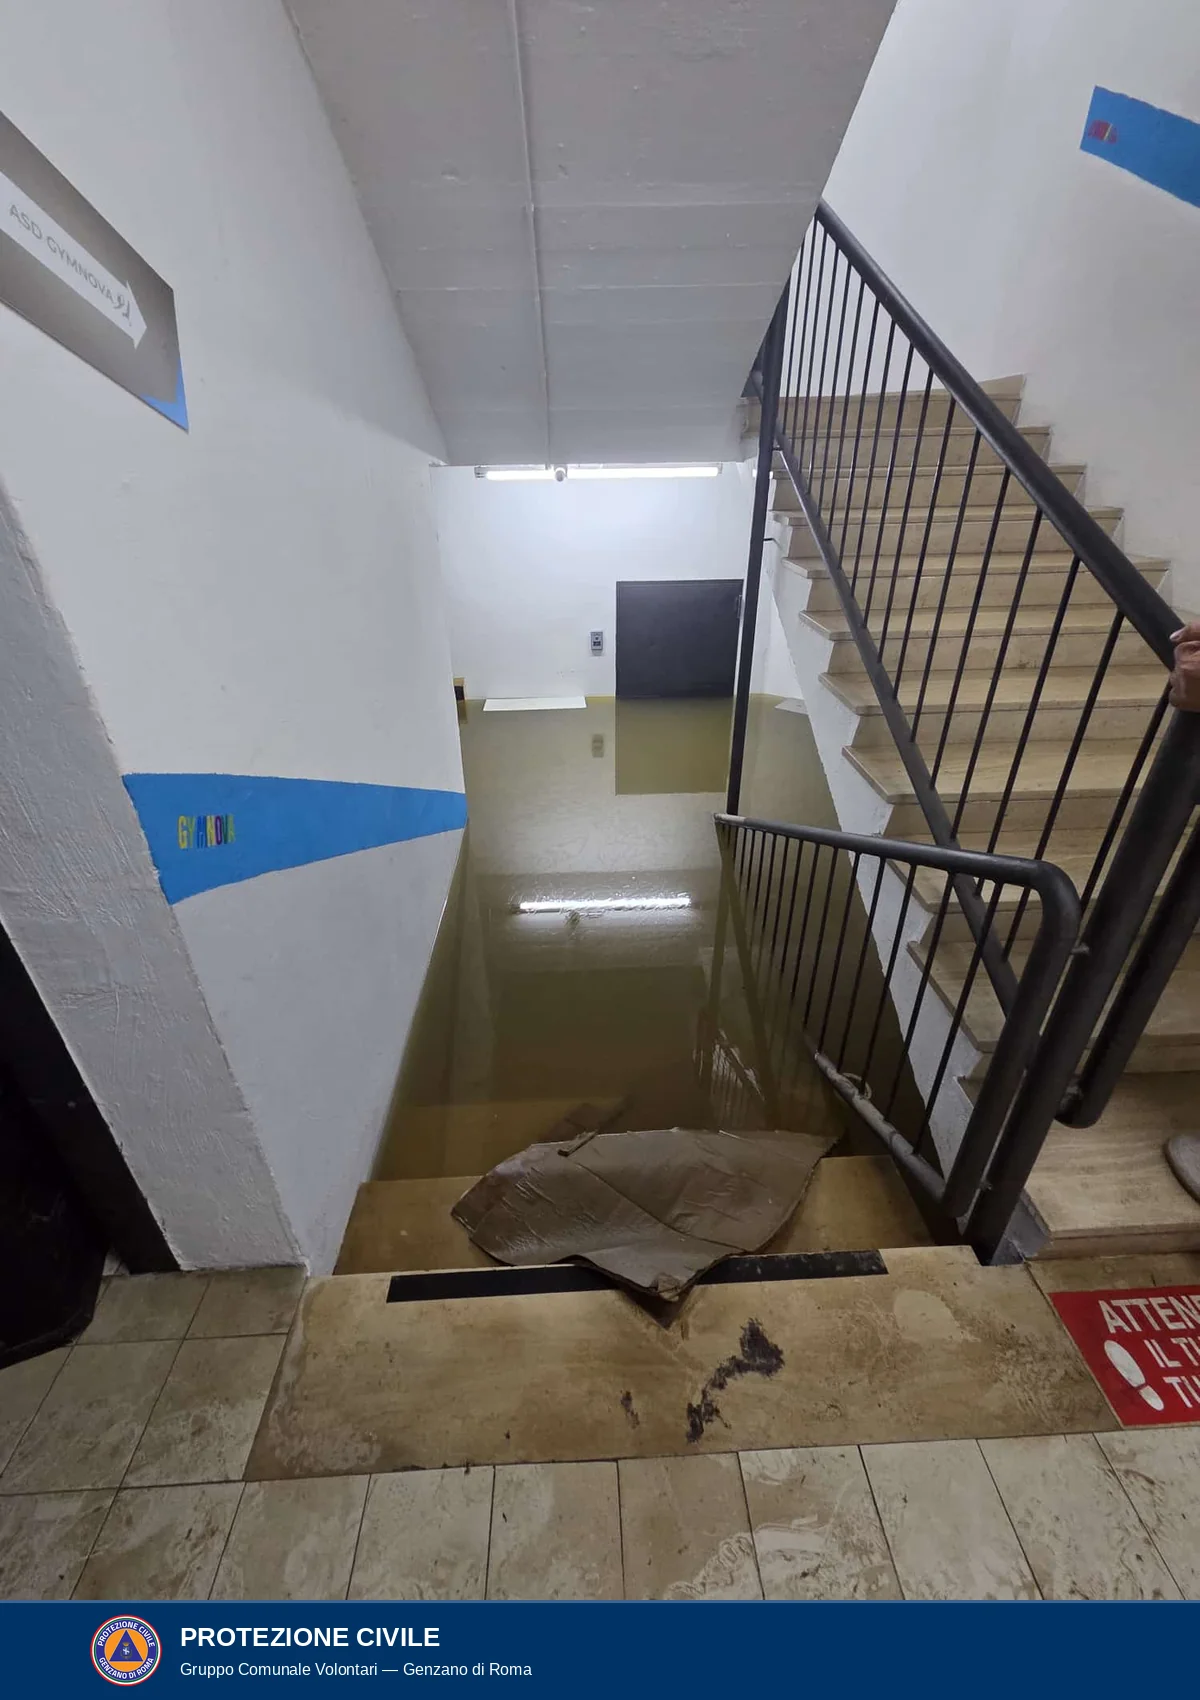
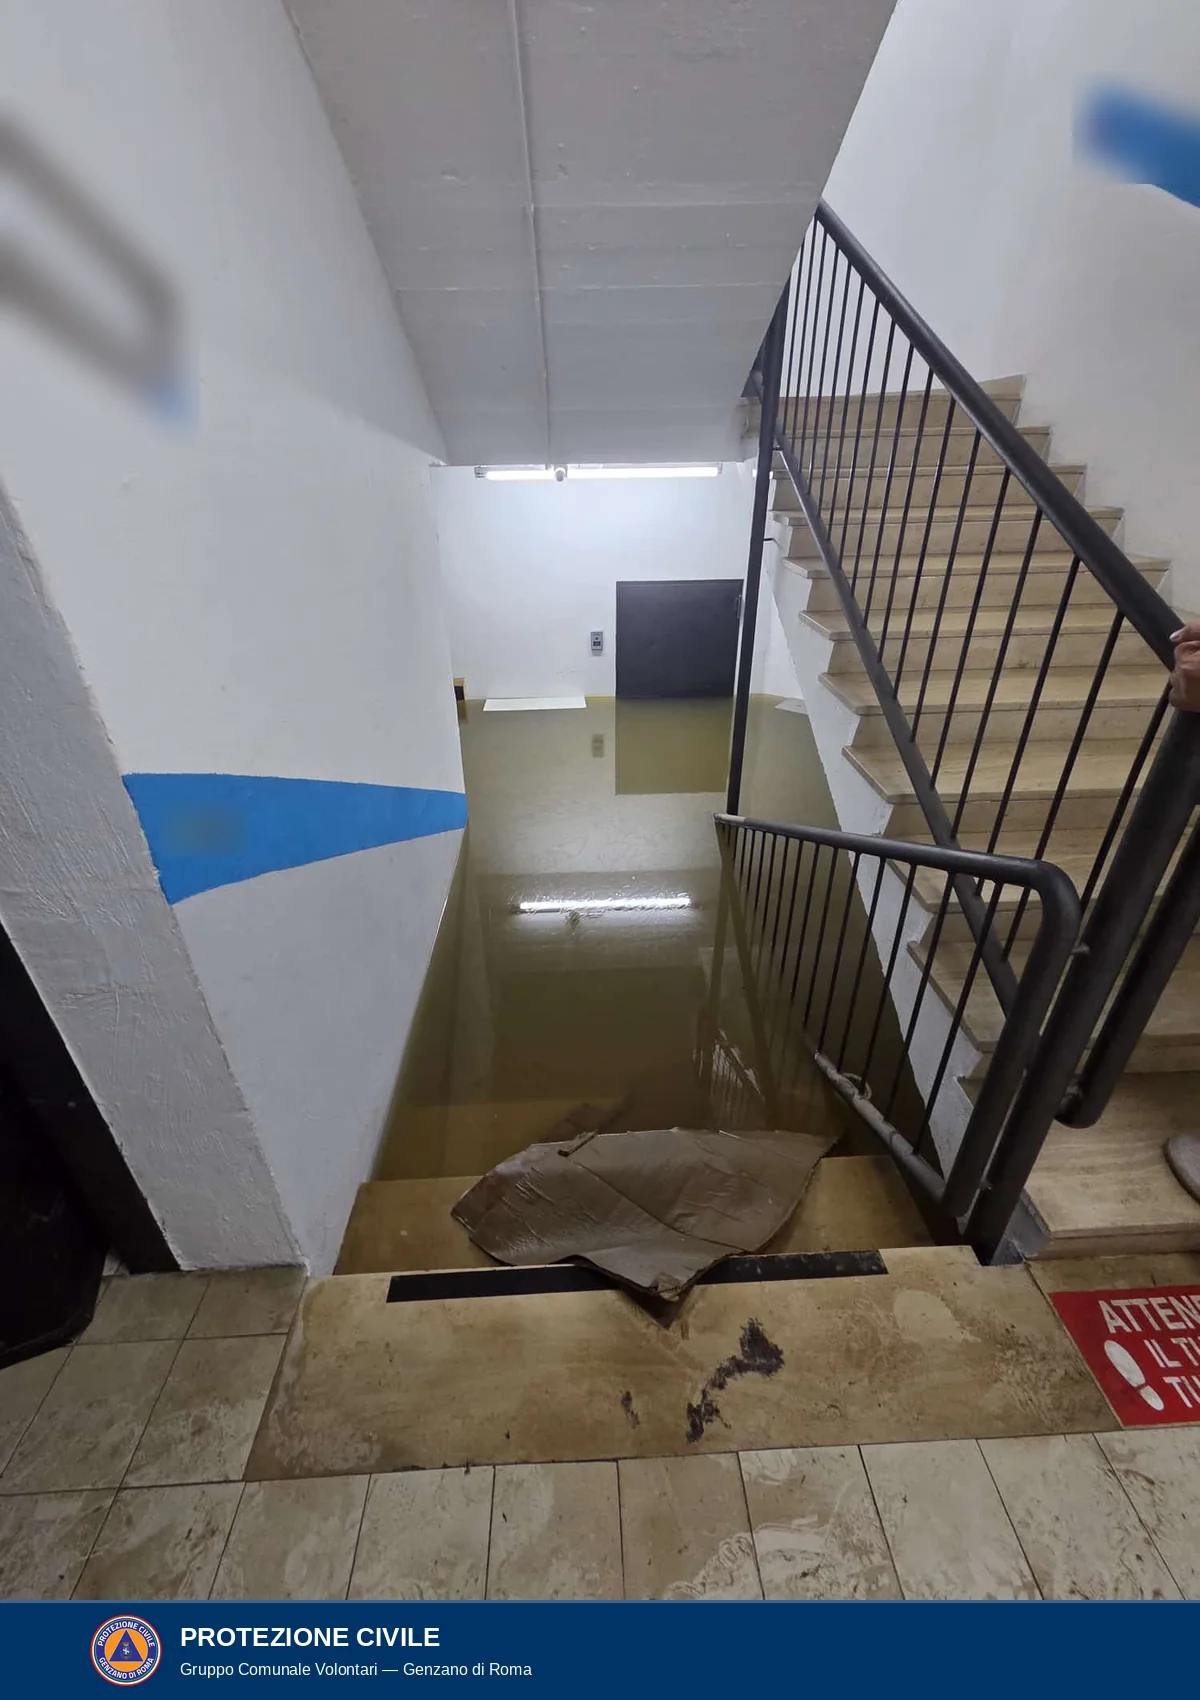
Resoconto del 21 ottobre: didascalie verificate e nome del locale sfocato

Changed region(s): [[0.0, 0.0624, 0.1542, 0.2494], [0.8942, 0.0312, 1.0, 0.1247], [0.1233, 0.4676, 0.2158, 0.4988]]

diff --git a/content/comunicazioni/2026-10-21-maltempo-rami-genzano-volontari-alluvione-latina.md b/content/comunicazioni/2026-10-21-maltempo-rami-genzano-volontari-alluvione-latina.md
@@ -38,23 +38,23 @@ Secondo le cronache locali, a Latina sono caduti circa 170 millimetri di pioggia
 
 Nel corso della mattina è partita anche una nostra squadra, con il pickup EVO Cross 4 del Gruppo e un'idrovora carrellata. Dopo l'allerta della **Sala Operativa Unificata Permanente** (SOUP) della Regione, il **Coordinamento FE.PI.VOL.**, a cui il Gruppo aderisce, ha mobilitato su indicazione della Regione Lazio le associazioni dei territori non colpiti, per dare supporto ai volontari di Latina e dei comuni vicini. Con noi c'erano, tra gli altri, i volontari del Gruppo comunale di Albano Laziale. Secondo le cronache locali, a Latina operavano anche le squadre comunali di Lanuvio e Velletri e associazioni di Ardea e di Anzio. Le squadre hanno lavorato con idrovore e motopompe in abitazioni, scantinati, edifici pubblici, locali commerciali e strade, insieme ai Vigili del Fuoco e alle forze dell'ordine. A tarda sera le operazioni proseguivano ancora.
 
-Tra gli interventi, la nostra squadra ha lavorato allo svuotamento di una palestra e dei suoi locali interrati, invasi da acqua e fango. L'idrovora pescava nei locali allagati e scaricava l'acqua in strada attraverso una lunga manichetta.
+Tra gli interventi, la nostra squadra ha lavorato allo svuotamento di una palestra e dei suoi locali interrati, invasi da acqua e fango. L'acqua aspirata veniva portata in strada con una lunga manichetta.
 
 {{< galleria titolo="La nostra squadra a Latina" >}}
 {{< foto src="/images/2026-10-21-latina-pickup-idrovora-parcheggio.webp"
          alt="Pickup bianco con bande gialla e blu e la scritta Protezione Civile e, davanti, un carrello con un'idrovora bianca, i tubi e la scritta Regione Lazio Dipartimento Ambiente Protezione Civile, in un parcheggio con il sole basso all'orizzonte. Sullo sfondo un camion, un'autocisterna, pini e altre auto."
-         caption="Il pickup EVO Cross 4 del Gruppo e l'idrovora carrellata, il 21 ottobre. Foto: Gruppo Comunale Volontari di Protezione Civile di Genzano di Roma." >}}
+         caption="Il pickup EVO Cross 4 del Gruppo con il carrello dell'idrovora, il 21 ottobre. Foto: Gruppo Comunale Volontari di Protezione Civile di Genzano di Roma." >}}
 {{< foto src="/images/2026-10-21-latina-idrovora-carrellata-cortile.webp"
-         alt="Un carrello bianco con un'idrovora e la scritta Regione Lazio Dipartimento Ambiente Protezione Civile, in un cortile asfaltato fra una siepe e una ringhiera. Più avanti il pickup di protezione civile e due volontari di spalle con pantaloni rossi a bande riflettenti; sullo sfondo palazzine color mattone."
-         caption="L'idrovora carrellata in posizione accanto ai locali da svuotare. Foto: Gruppo Comunale Volontari di Protezione Civile di Genzano di Roma." >}}
+         alt="Un carrello bianco con un'idrovora e la scritta Regione Lazio Dipartimento Ambiente Protezione Civile, in un cortile asfaltato fra una siepe e una ringhiera. Più avanti il pickup di protezione civile e, in lontananza, due volontari con pantaloni rossi a bande riflettenti, di cui uno con il volto oscurato; sullo sfondo palazzine color mattone."
+         caption="L'idrovora sul carrello, posizionata nel cortile. Foto: Gruppo Comunale Volontari di Protezione Civile di Genzano di Roma." >}}
 {{< foto src="/images/2026-10-21-latina-tubo-scarico-strada.webp"
-         alt="Una strada asfaltata con una lunga manichetta blu che corre lungo la ringhiera e scarica acqua sulla carreggiata, delimitata da coni bianchi e arancioni e da barriere gialle. Sullo sfondo un furgone bianco e alberi."
-         caption="La manichetta porta in strada l'acqua aspirata dai locali allagati. Foto: Gruppo Comunale Volontari di Protezione Civile di Genzano di Roma." >}}
+         alt="Una strada asfaltata con una lunga manichetta blu che corre lungo la ringhiera; più avanti la carreggiata è bagnata, con coni bianchi e arancioni e barriere gialle. Sullo sfondo un furgone bianco e alberi."
+         caption="La lunga manichetta lungo la strada, da cui l'acqua aspirata dai locali allagati viene scaricata. Foto: Gruppo Comunale Volontari di Protezione Civile di Genzano di Roma." >}}
 {{< foto src="/images/2026-10-21-latina-palestra-allagata.webp"
-         alt="L'interno di una palestra su due livelli, con il piano basso sommerso da acqua scura in cui galleggiano attrezzi e oggetti; al piano superiore si vedono gli attrezzi asciutti e alcuni striscioni."
+         alt="L'interno di una palestra su due livelli, con il piano basso sommerso da acqua scura da cui emergono attrezzi e oggetti; al piano superiore si vedono macchinari per l'allenamento all'asciutto e striscioni con scritte motivazionali."
          caption="Il piano inferiore di una palestra invaso dall'acqua. Foto: Gruppo Comunale Volontari di Protezione Civile di Genzano di Roma." >}}
 {{< foto src="/images/2026-10-21-latina-scala-locali-interrati.webp"
-         alt="Una scala interna con le pareti bianche che scende verso un pianerottolo invaso da acqua torbida e marrone; sul gradino più basso c'è un cartone fradicio."
+         alt="Una scala interna con le pareti bianche e strisce azzurre dipinte, che scende verso un pianerottolo invaso da acqua torbida e marrone; sul gradino più basso c'è un cartone fradicio."
          caption="La scala che porta ai locali interrati, con l'acqua arrivata fino agli ultimi gradini. Foto: Gruppo Comunale Volontari di Protezione Civile di Genzano di Roma." >}}
 {{< foto src="/images/2026-10-21-latina-garage-allagato.webp"
          alt="Un locale interrato con una porta rossa, allagato da acqua fangosa su cui galleggiano rametti, foglie e detriti; sulle pareti si vede il segno lasciato dall'acqua."
